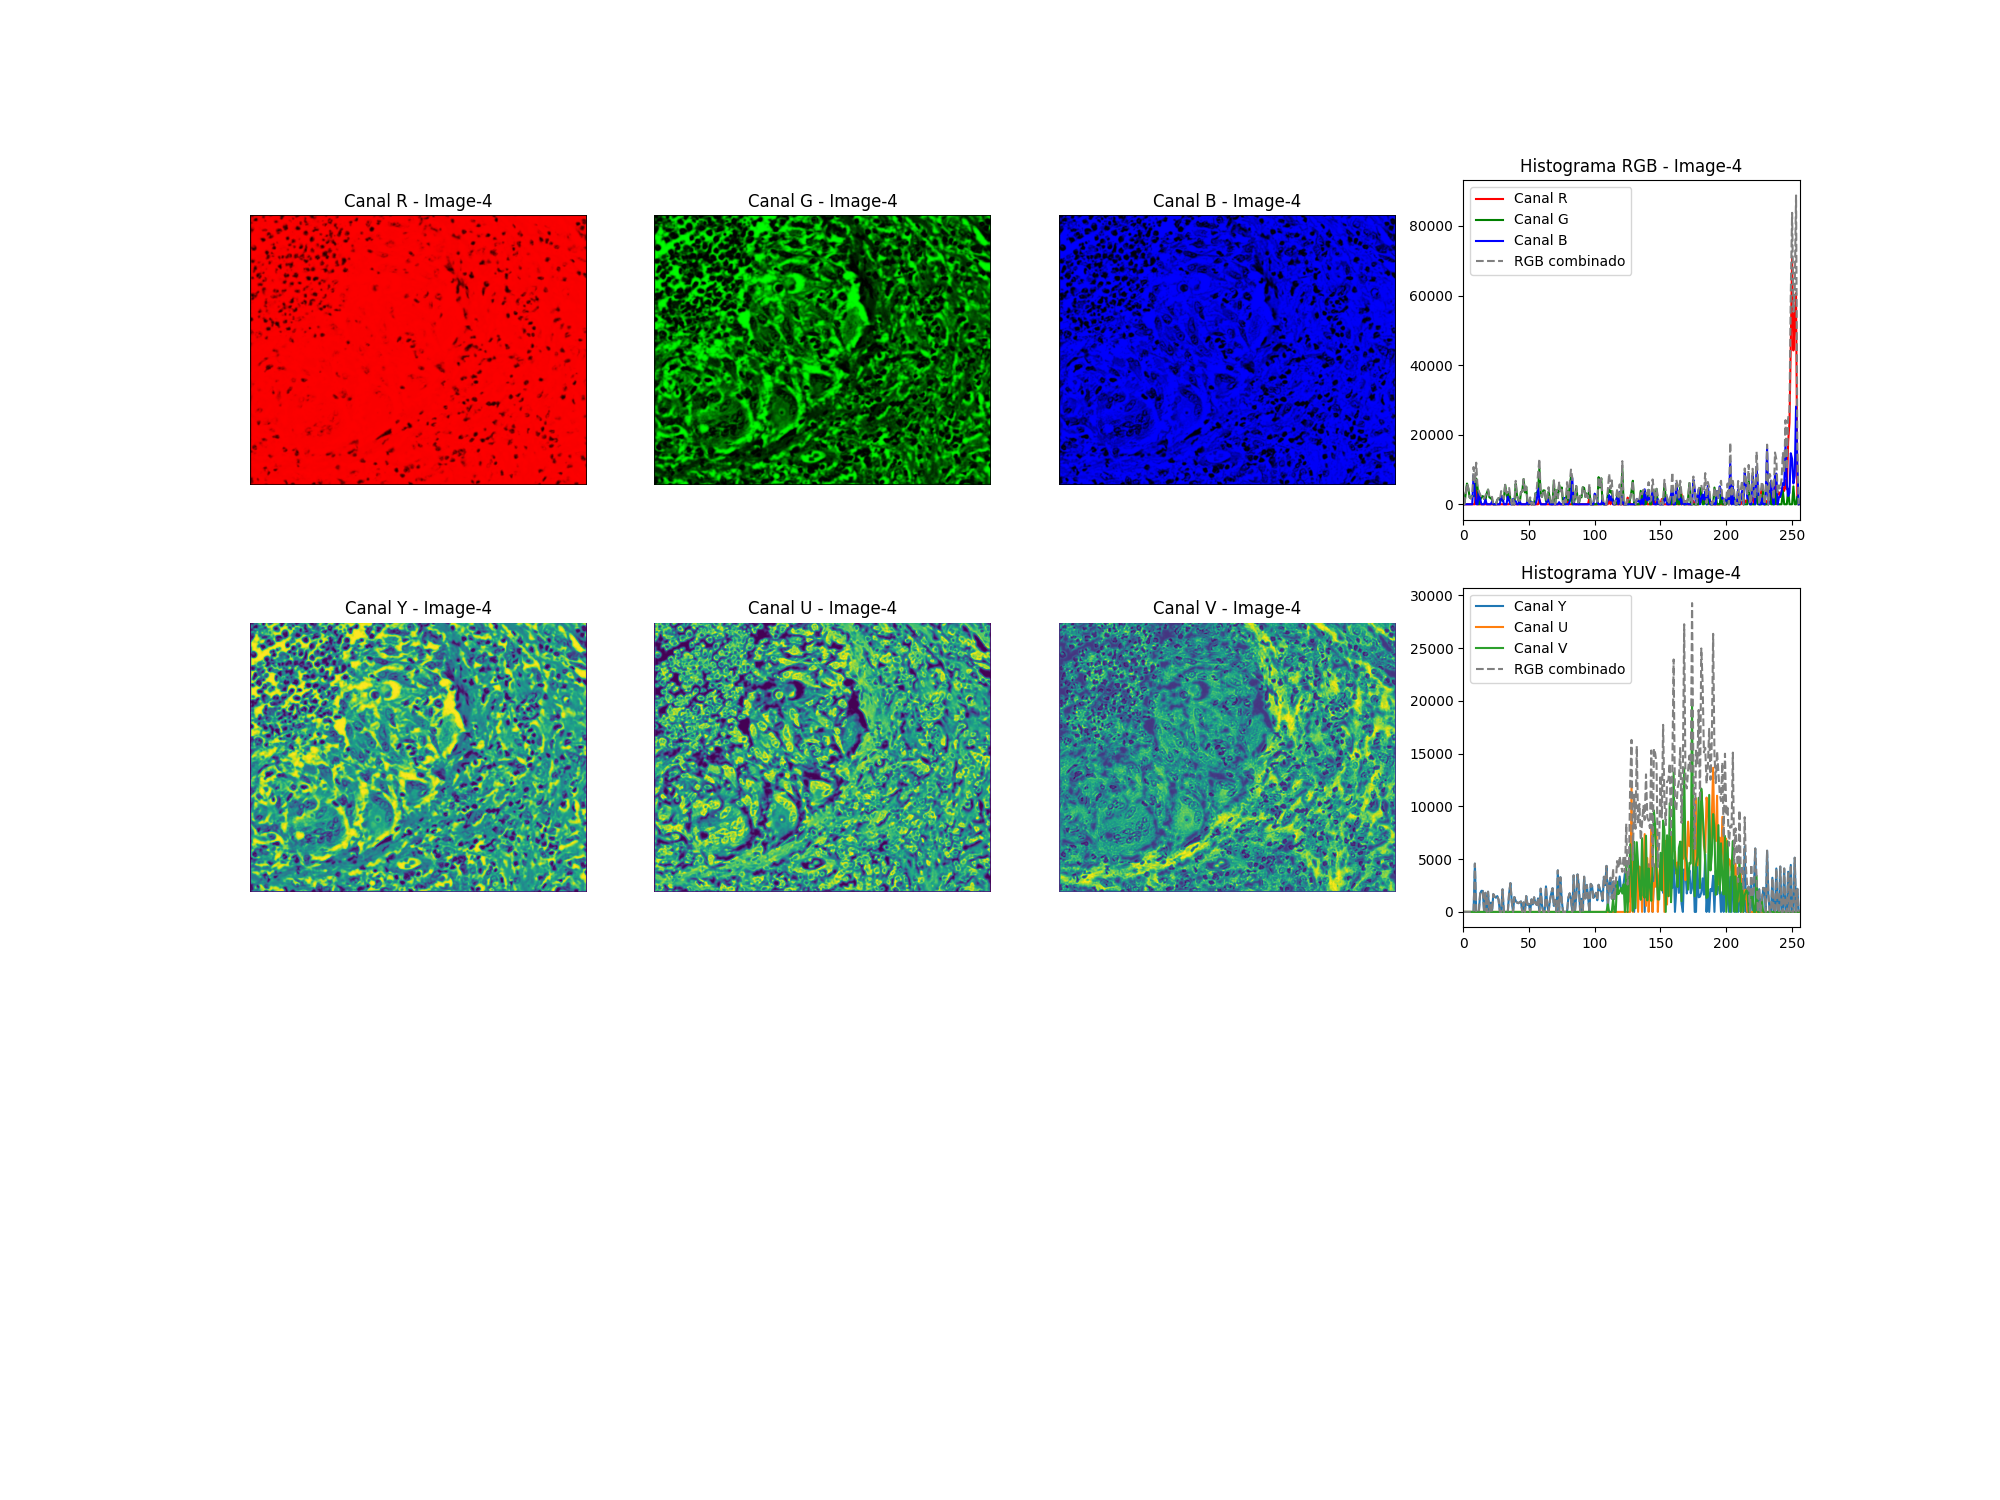
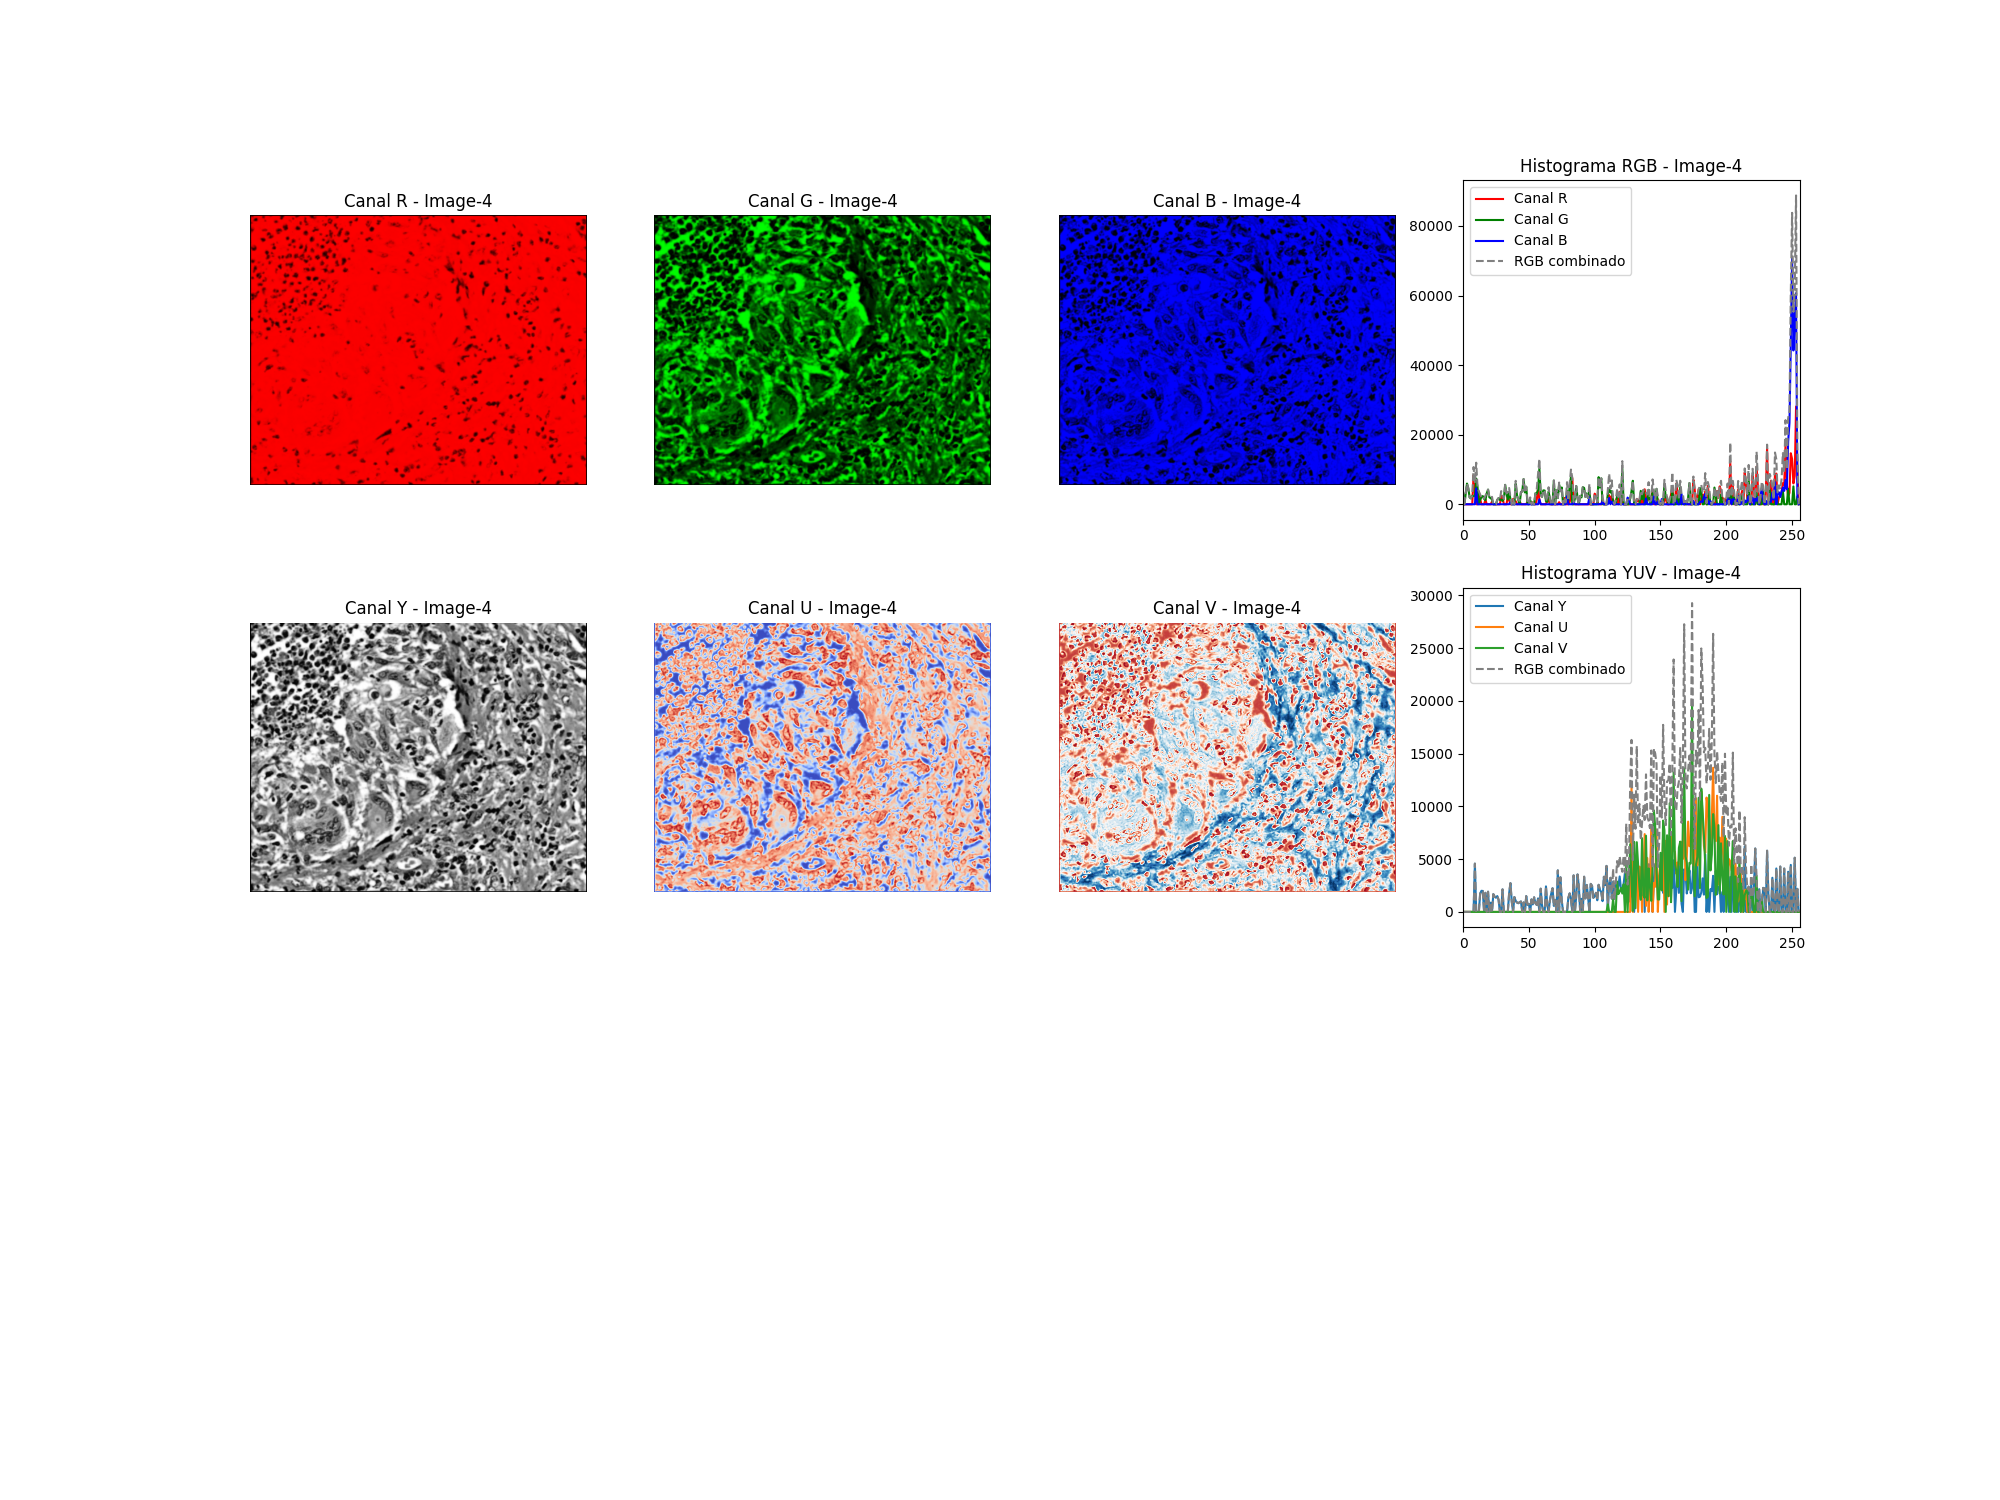
Nuevo seteo de visualizacion de histogramas

Changed region(s): [[0.124, 0.3987, 0.496, 0.6133], [0.527, 0.3987, 0.713, 0.6133], [0.806, 0.3067, 0.899, 0.3373]]

diff --git a/Codigos/funciones/histograma.py b/Codigos/funciones/histograma.py
@@ -93,9 +93,12 @@ def mostrar_histogramas(imagenes, sufijos, output_dir='./output/histogramas'):
 
                 # Guardar y mostrar imágenes de cada componente (R, G, B)
                 colores = ('R', 'G', 'B')
+                mapas = ["Reds","Greens","Blues"]
+                
                 for j, col in enumerate(colores):
-                    canal_img = np.zeros_like(imagen)
-                    canal_img[:, :, j] = imagen[:, :, j]
+                    
+                    #canal_img = np.zeros_like(imagen)
+                    canal_img = imagen[:, :, j]
                     
                     # Guardar cada canal individual en la carpeta RGB
                     canal_img_rgb = canal_img # Ya que lo asigne correctamente ya 
@@ -103,9 +106,11 @@ def mostrar_histogramas(imagenes, sufijos, output_dir='./output/histogramas'):
 
                     # Mostrar cada canal
                     plt.subplot(3, 4, 1 + j)
-                    plt.imshow(canal_img_rgb)
+                    plt.imshow(canal_img, cmap = mapas[j] )
                     plt.title(f"Canal {col} - {sufijos[i]}")
                     plt.axis('off')
+                    plt.colorbar()
+                    
 
                 # Guardar el histograma RGB combinado y por canal
                 plt.subplot(3, 4, 4)
@@ -113,8 +118,9 @@ def mostrar_histogramas(imagenes, sufijos, output_dir='./output/histogramas'):
                 colores_rgb = ('r', 'g', 'b')
                 hist_total = np.zeros(256) 
                 for j, col in enumerate(colores_rgb):
-                    imagen_rgb = cv2.cvtColor(imagen, cv2.COLOR_BGR2RGB)
-                    hist = cv2.calcHist([imagen_rgb], [j], None, [256], [0, 256])
+                    #imagen_rgb = cv2.cvtColor(imagen, cv2.COLOR_BGR2RGB) (No hace falta esto porque
+                    # el [j] de hist ya lo pone en su canal apropiado)
+                    hist = cv2.calcHist([imagen], [j], None, [256], [0, 256])
                     hist_total += hist.flatten() 
                     plt.plot(hist, color=col, label=f'Canal {col.upper()}')
                 plt.plot(hist_total, color='gray', label='RGB combinado', linestyle='--', linewidth=1.5)
@@ -128,6 +134,7 @@ def mostrar_histogramas(imagenes, sufijos, output_dir='./output/histogramas'):
                 # Convertir la imagen a YUV y guardar
                 yuv_img = cv2.cvtColor(imagen, cv2.COLOR_BGR2YUV)
                 componentes_yuv = ('Y', 'U', 'V')
+                mapas = ["gray","coolwarm","RdBu"]
                 for j in range(3):
                     canal_img = np.zeros_like(yuv_img)
                     canal_img[:, :, j] = yuv_img[:, :, j]
@@ -137,9 +144,10 @@ def mostrar_histogramas(imagenes, sufijos, output_dir='./output/histogramas'):
 
                     # Mostrar cada canal
                     plt.subplot(3, 4, 5 + j)
-                    plt.imshow(canal_img[:, :, j])
+                    plt.imshow(canal_img[:, :, j], cmap = mapas [j])
                     plt.title(f"Canal {componentes_yuv[j]} - {sufijos[i]}")
                     plt.axis('off')
+                    plt.colorbar()
 
                 # Guardar el histograma YUV
                 plt.subplot(3, 4, 8)
@@ -160,6 +168,7 @@ def mostrar_histogramas(imagenes, sufijos, output_dir='./output/histogramas'):
                 # Convertir la imagen a HSV y guardar
                 hsv_img = cv2.cvtColor(imagen, cv2.COLOR_BGR2HSV)
                 componentes_hsv = ('H', 'S', 'V')
+                mapas = ["hsv","viridis","gray"]
                 for j in range(3):
                     canal_img = np.zeros_like(hsv_img)
                     canal_img[:, :, j] = hsv_img[:, :, j]
@@ -169,9 +178,10 @@ def mostrar_histogramas(imagenes, sufijos, output_dir='./output/histogramas'):
 
                     # Mostrar cada canal
                     plt.subplot(3, 4, 9 + j)
-                    plt.imshow(canal_img[:, :, j])
+                    plt.imshow(canal_img[:, :, j], cmap = mapas[j])
                     plt.title(f"Canal {componentes_hsv[j]} - {sufijos[i]}")
                     plt.axis('off')
+                    plt.colorbar()
 
                 # Guardar el histograma HSV
                 plt.subplot(3, 4, 12)

diff --git a/Codigos/ejercicio1.py b/Codigos/ejercicio1.py
@@ -15,7 +15,7 @@ def ejercicio1():
    
     # Mostrar histogramas del set 1
     print("Mostrando histogramas del Set 1 (PAIByB-3):")
-    mostrar_espacios(imagenes_set1, sufijos_set1)
+    #mostrar_espacios(imagenes_set1, sufijos_set1)
     mostrar_histogramas(imagenes_set1, sufijos_set1)
 
     print("Mostrando autocorrelogramas del Set 1 (PAIByB-3):")
